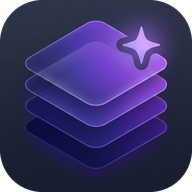
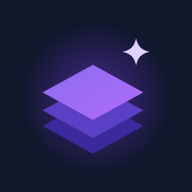
Marka simgesi tek tip: ana ekran, sekme simgesi, başlık ve açılış aynı tasarım
- Tüm uygulama simgeleri (192, 512, maskable, Apple 180) tam kare lacivert zemin + mor
  katmanlar ve yıldız; köşesi saydam olmadığı için telefon simgeyi beyaz bir kutuya koymaz,
  kendi şekliyle (daire, yuvarlak kare) keser
- Tarayıcı sekmesi simgesi (SVG ve favicon.ico) aynı tasarım
- Uygulama başlığındaki logo ve açılış ekranı ortak BrandLogo bileşenini kullanır
- Simge adresleri sürümlendi (telefon ve tarayıcı önbelleği yenisini alsın)

Claude-Session: https://claude.ai/code/session_019gdZMY5YH5kFuHkRS3e7ba

diff --git a/src/components/common/BrandLogo.tsx b/src/components/common/BrandLogo.tsx
@@ -1,0 +1,38 @@
+/**
+ * Automania marka simgesi: lacivert zemin üzerinde mor katmanlar ve yıldız. Ana ekran simgesi,
+ * tarayıcı sekmesi simgesi (public/icon-*.png, icon-logo.svg), açılış ekranı ve uygulama başlığı aynı çizimi kullanır.
+ */
+import React, { useId } from 'react';
+
+/** Yalnızca katmanlar + yıldız (zeminsiz). */
+export function BrandGlyph({ className = '', sparkleClassName }: { className?: string; sparkleClassName?: string }) {
+  const gradientId = `brand-top-${useId().replace(/:/g, '')}`;
+  return (
+    <svg viewBox="8 3 50 54" className={className} aria-hidden="true">
+      <defs>
+        <linearGradient id={gradientId} x1="0" y1="0" x2="1" y2="1">
+          <stop offset="0" stopColor="#8b6cf0" />
+          <stop offset="1" stopColor="#b16cf8" />
+        </linearGradient>
+      </defs>
+      <path d="M32 31 53 42.5 32 54 11 42.5Z" fill="#3b2a9e" />
+      <path d="M32 24.5 53 36 32 47.5 11 36Z" fill="#5b3fc4" />
+      <path d="M32 17 53 28.5 32 40 11 28.5Z" fill={`url(#${gradientId})`} />
+      <path
+        className={sparkleClassName}
+        d="M50 6c.8 3.4 2.2 4.8 5.6 5.6-3.4.8-4.8 2.2-5.6 5.6-.8-3.4-2.2-4.8-5.6-5.6 3.4-.8 4.8-2.2 5.6-5.6Z"
+        fill={sparkleClassName ? undefined : '#e0d2ff'}
+      />
+    </svg>
+  );
+}
+
+/** Uygulama simgesinin küçük hali: yuvarlatılmış lacivert kare içinde simge (başlıkta kullanılır). */
+export function BrandMark({ className = 'w-10 h-10' }: { className?: string }) {
+  return (
+    <span className={`${className} relative inline-flex items-center justify-center rounded-[28%] bg-[#0f172a] ring-1 ring-white/10 shadow-lg shadow-indigo-500/25 overflow-hidden shrink-0`}>
+      <span className="absolute inset-0 bg-[radial-gradient(circle_at_50%_52%,rgba(124,58,237,0.55),transparent_70%)]" aria-hidden="true" />
+      <BrandGlyph className="relative w-[80%] h-[80%]" />
+    </span>
+  );
+}

diff --git a/src/components/common/LoadingScreens.tsx b/src/components/common/LoadingScreens.tsx
@@ -1,27 +1,7 @@
 'use client';
 
 import React from 'react';
-
-/**
- * Marka simgesi (katmanlar + yıldız), uygulama simgesiyle aynı çizim. Yükleme ekranında, telefonun
- * PWA açılış ekranındaki simgeyle aynı yerde ve boyutta durur; geçiş fark edilmez.
- */
-function BrandGlyph({ className = '' }: { className?: string }) {
-  return (
-    <svg viewBox="8 3 50 54" className={className} aria-hidden="true">
-      <defs>
-        <linearGradient id="splash-top" x1="0" y1="0" x2="1" y2="1">
-          <stop offset="0" stopColor="#8b6cf0" />
-          <stop offset="1" stopColor="#b16cf8" />
-        </linearGradient>
-      </defs>
-      <path d="M32 31 53 42.5 32 54 11 42.5Z" fill="#3b2a9e" />
-      <path d="M32 24.5 53 36 32 47.5 11 36Z" fill="#5b3fc4" />
-      <path d="M32 17 53 28.5 32 40 11 28.5Z" fill="url(#splash-top)" />
-      <path className="app-splash-sparkle" d="M50 6c.8 3.4 2.2 4.8 5.6 5.6-3.4.8-4.8 2.2-5.6 5.6-.8-3.4-2.2-4.8-5.6-5.6 3.4-.8 4.8-2.2 5.6-5.6Z" />
-    </svg>
-  );
-}
+import { BrandGlyph } from '@/components/common/BrandLogo';
 
 /**
  * Uygulama açılırken (çalışma alanı tarayıcıdan/buluttan yüklenirken) tam ekran gösterilen karşılama.
@@ -38,7 +18,7 @@ export function AppSplash({ visible }: { visible: boolean }) {
       <div className="absolute inset-0 flex items-center justify-center">
         <div className="relative w-40 h-40 flex items-center justify-center">
           <span className="app-splash-glow absolute inset-0 rounded-full" aria-hidden="true" />
-          <BrandGlyph className="relative w-[4.75rem] h-[4.75rem]" />
+          <BrandGlyph className="relative w-[4.75rem] h-[4.75rem]" sparkleClassName="app-splash-sparkle" />
         </div>
       </div>
       <div className="absolute inset-x-0 top-1/2 mt-24 flex justify-center">

diff --git a/src/components/common/Header.tsx b/src/components/common/Header.tsx
@@ -3,7 +3,6 @@
 import React from 'react';
 import Image from 'next/image';
 import {
-  Layers,
   Sparkles,
   Image as ImageIcon,
   Tag,
@@ -17,6 +16,7 @@ import {
   ClipboardCheck,
 } from 'lucide-react';
 import { useTheme } from './ThemeProvider';
+import { BrandMark } from './BrandLogo';
 import { useAuth } from './UserAuthContext';
 
 export type TabKey = 'mockups' | 'designs' | 'generator' | 'review' | 'seo' | 'listings';
@@ -89,9 +89,7 @@ export const Header: React.FC<HeaderProps> = ({
               aria-label="Ana sayfaya dön"
               onKeyDown={(e) => e.key === 'Enter' && setActiveTab('mockups')}
             >
-              <div className="w-8 h-8 md:w-10 md:h-10 rounded-xl bg-gradient-to-tr from-indigo-600 via-purple-600 to-pink-500 flex items-center justify-center shadow-lg shadow-indigo-500/20">
-                <Layers className="w-4 h-4 md:w-6 md:h-6 text-white" />
-              </div>
+              <BrandMark className="w-8 h-8 md:w-10 md:h-10" />
               <div>
                 <span className="text-base md:text-xl font-bold bg-gradient-to-r from-indigo-600 via-purple-600 to-pink-500 dark:from-white dark:via-slate-200 dark:to-indigo-300 bg-clip-text text-transparent leading-tight block">
                   Automania POD

diff --git a/src/app/layout.tsx b/src/app/layout.tsx
@@ -32,8 +32,8 @@ export const metadata: Metadata = {
   manifest: "/manifest.json",
   // favicon.ico (16/32/48) app/ klasöründen otomatik eklenir; modern tarayıcılar vektörel SVG simgeyi kullanır.
   icons: {
-    icon: [{ url: "/icon-logo.svg", type: "image/svg+xml" }],
-    apple: [{ url: "/icon-apple-180.png", sizes: "180x180", type: "image/png" }],
+    icon: [{ url: "/icon-logo.svg?v=3", type: "image/svg+xml" }],
+    apple: [{ url: "/icon-apple-180.png?v=3", sizes: "180x180", type: "image/png" }],
   },
   appleWebApp: {
     capable: true,
